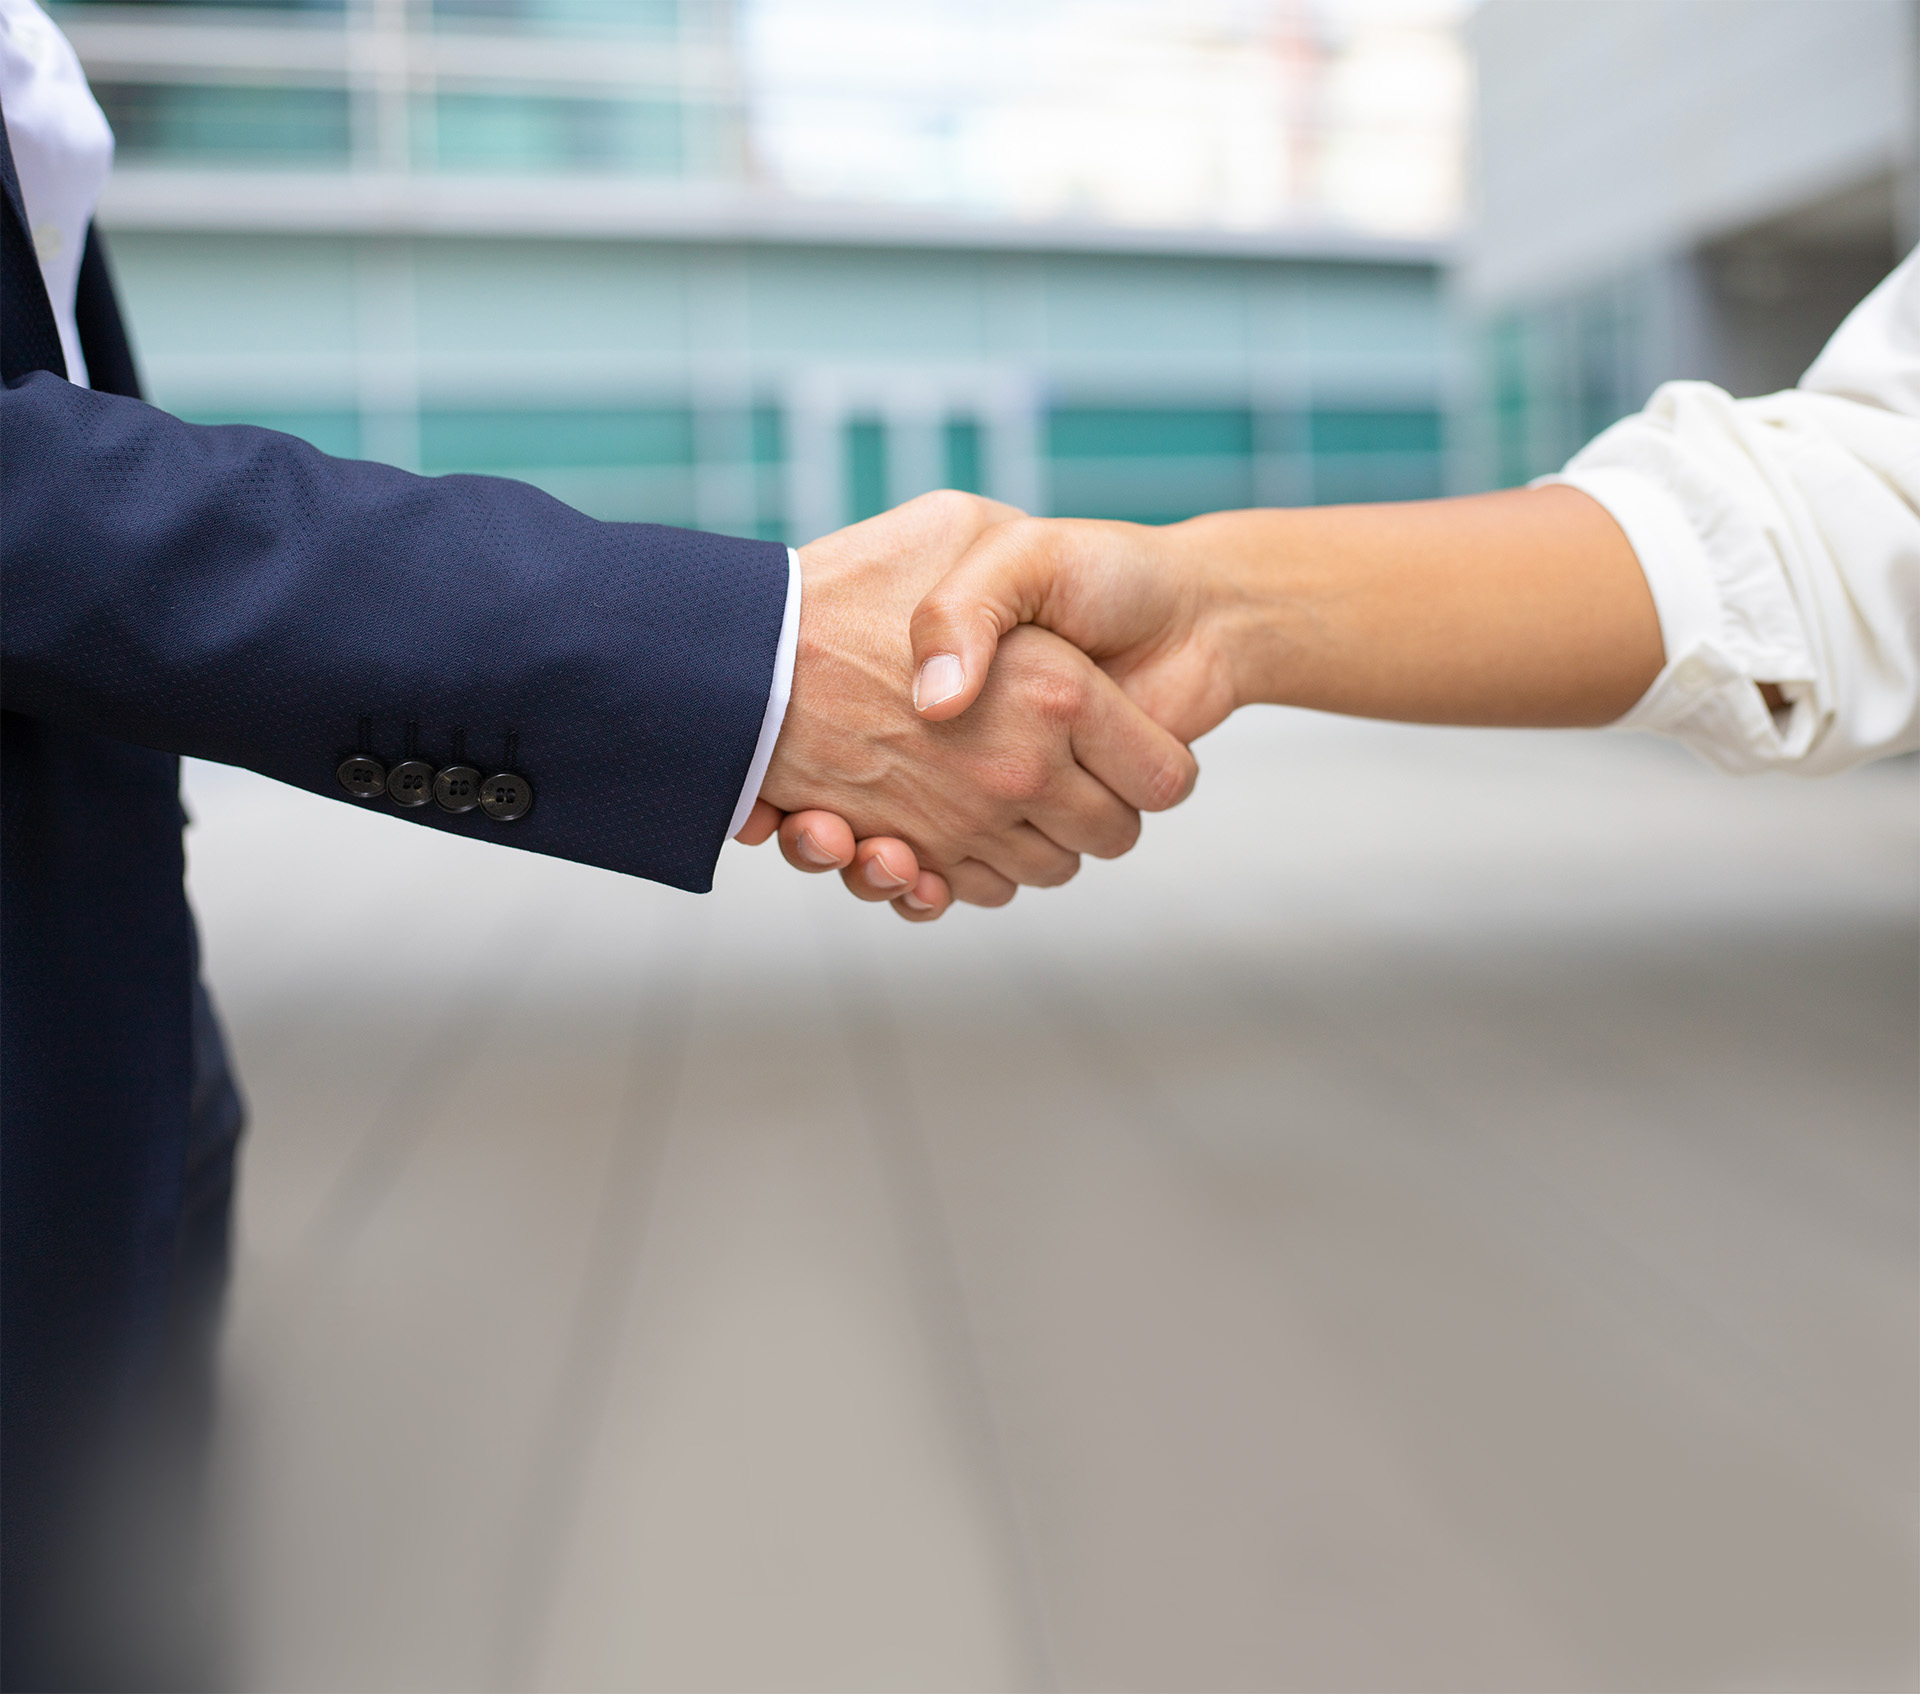
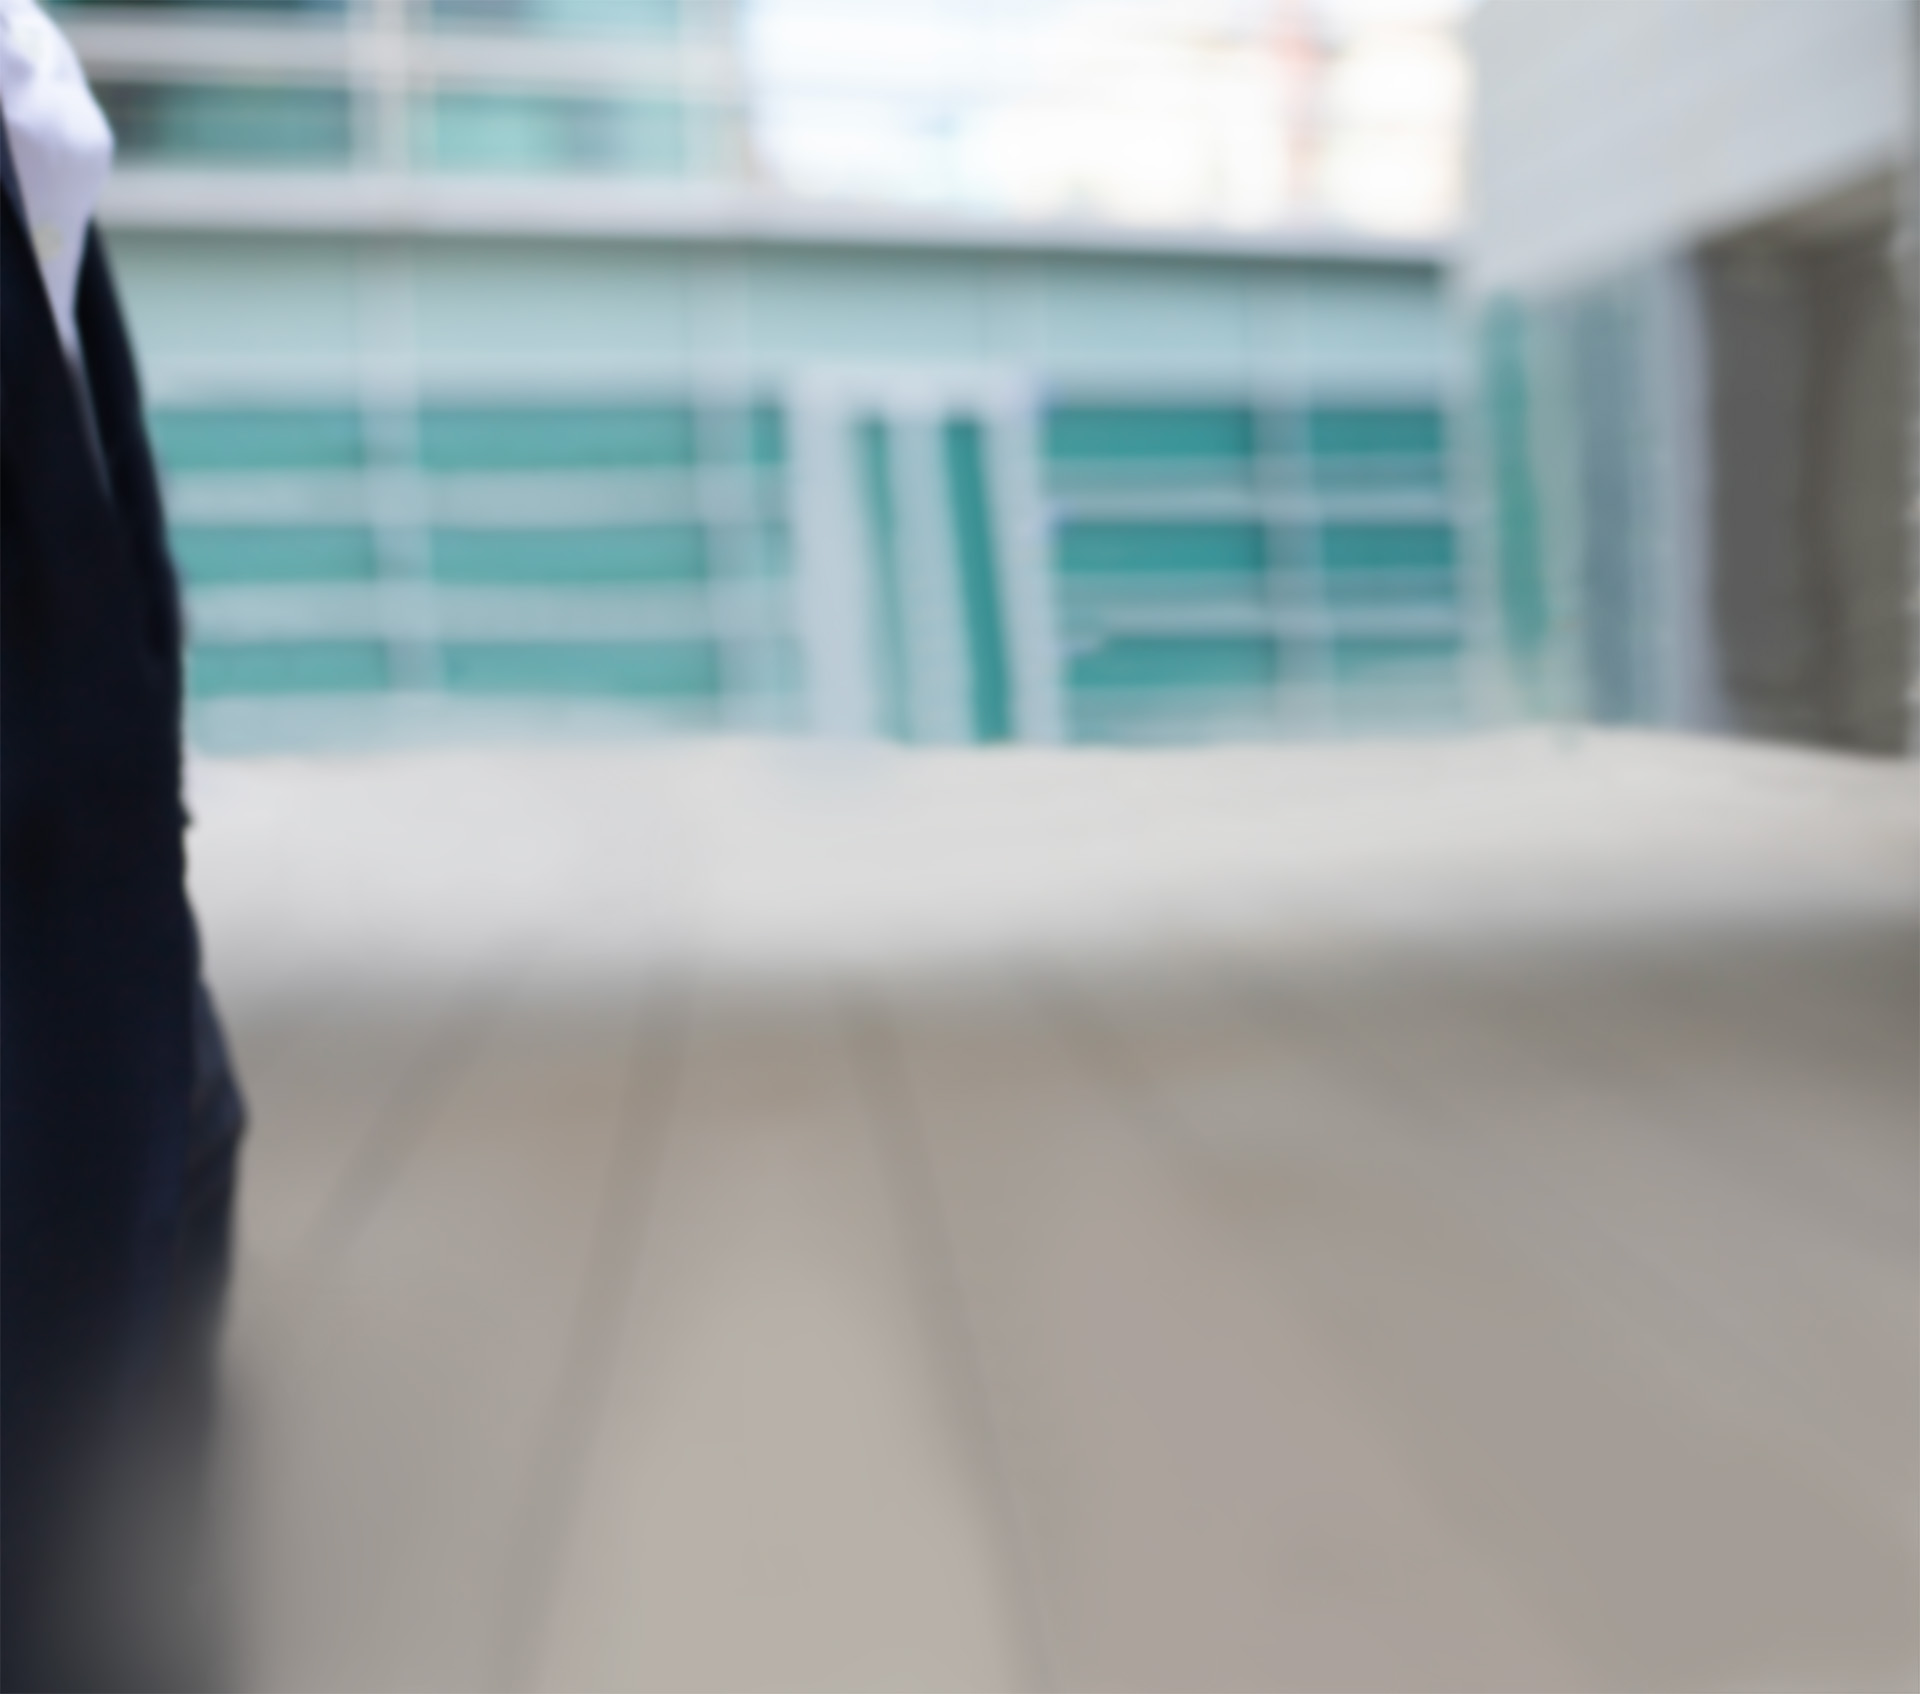
js cleanup

Changed region(s): [[0.0, 0.1228, 1.0, 0.5525], [0.0, 0.1535, 0.0312, 0.1842]]

diff --git a/assets/js/script.js b/assets/js/script.js
@@ -72,36 +72,7 @@
     /************************
         Image Animation
     *************************/
-
-    // Hero Section
-    const observerHero = new IntersectionObserver(cb, {
-        root: null,
-        threshold: 1,
-    })
-
-    function cb(payload) {
-        let initialOffset = 1
-        let initialScale = 1
-        const elem = payload[0]
-
-        if (elem.isIntersecting) {
-            document.addEventListener('scroll', () => {
-                let wo = window.scrollY
-                let newScale = wo * 0.0006 + initialScale
-                let newOffset = wo * 0.0001 + initialOffset
-                elem.target.style.transform = `translateY(${newOffset}px) scale(${newScale})`
-            })
-        }
-    }
-
-    observerHero.observe(document.querySelector('.decor-hero__birds'))
-
-    const observerBirds2 = new IntersectionObserver(cb, {
-        root: null,
-        threshold: 1,
-    })
-
-    function cb(payload) {
+    function cb(payload, scaleSize, offsetSize) {
         let initialOffset = 1
         let initialScale = 1
         const elem = payload[0]
@@ -110,116 +81,89 @@
             const starterScrollY = window.scrollY
             document.addEventListener('scroll', () => {
                 let wo = window.scrollY - starterScrollY
-                let newScale = wo * 0.0002 + initialScale < 1 ? 1 : wo * 0.0002 + initialScale
-                let newOffset = wo * 0.0001 + initialOffset
+                let newScale = wo * scaleSize + initialScale < 1 ? 1 : wo * scaleSize + initialScale
+                let newOffset = wo * offsetSize + initialOffset
                 elem.target.style.transform = `translateY(${newOffset}px) scale(${newScale})`
             })
         }
     }
+
+    // Hero Section
+    const observerHero = new IntersectionObserver(
+        (payload) => {
+            cb(payload, 0.0006, 0.001)
+        },
+        {
+            threshold: 1,
+        }
+    )
+
+    observerHero.observe(document.querySelector('.decor-hero__birds'))
+
+    const observerBirds2 = new IntersectionObserver(
+        (payload) => {
+            cb(payload, 0.0002, 0.003)
+        },
+        {
+            threshold: 1,
+        }
+    )
 
     observerBirds2.observe(document.querySelector('.birds'))
 
     // Mission Section
     const handshake = document.querySelector('.mission-decor__handshake')
 
-    const observerMission = new IntersectionObserver(cb2, {
-        root: null,
-        threshold: 1,
-    })
-
-    function cb2(payload) {
-        let initialOffset = 1
-        let initialScale = 1
-        const elem = payload[0]
-
-        if (elem.isIntersecting) {
-            const starterScrollY = window.scrollY
-            document.addEventListener('scroll', () => {
-                let wo = window.scrollY - starterScrollY
-                let newScale = wo * 0.0002 + initialScale < 1 ? 1 : wo * 0.0002 + initialScale
-                let newOffset = wo * 0.005 + initialOffset
-                elem.target.style.transform = `translateY(${newOffset}%) scale(${newScale})`
-            })
+    const observerMission = new IntersectionObserver(
+        (payload) => {
+            cb(payload, 0.0001, 0.05)
+        },
+        {
+            threshold: 1,
         }
-    }
+    )
 
     observerMission.observe(handshake)
 
     // Clouds Section
     const cloud1 = document.querySelector('.cloud-1')
 
-    const observerCloud1 = new IntersectionObserver(cb3, {
-        root: null,
-        threshold: 1,
-    })
-
-    function cb3(payload) {
-        let initialOffset = 1
-        let initialScale = 1
-        const elem = payload[0]
-
-        if (elem.isIntersecting) {
-            const starterScrollY = window.scrollY
-            document.addEventListener('scroll', () => {
-                let wo = window.scrollY - starterScrollY
-                let newScale = wo * 0.0002 + initialScale < 1 ? 1 : wo * 0.0002 + initialScale
-                let newOffset = wo * 0.015 + initialOffset
-                elem.target.style.transform = `translateY(${newOffset}%) scale(${newScale})`
-            })
+    const observerCloud1 = new IntersectionObserver(
+        (payload) => {
+            cb(payload, 0.0001, -0.2)
+        },
+        {
+            threshold: 1,
         }
-    }
+    )
 
     observerCloud1.observe(cloud1)
 
     // Clouds Section
     const cloud2 = document.querySelector('.cloud-2')
 
-    const observerCloud2 = new IntersectionObserver(cb4, {
-        root: null,
-        threshold: 1,
-    })
-
-    function cb4(payload) {
-        let initialOffset = 1
-        let initialScale = 1
-        const elem = payload[0]
-
-        if (elem.isIntersecting) {
-            const starterScrollY = window.scrollY
-            document.addEventListener('scroll', () => {
-                let wo = window.scrollY - starterScrollY
-                let newScale = wo * 0.0003 + initialScale < 1 ? 1 : wo * 0.0003 + initialScale
-                let newOffset = wo * 0.01 + initialOffset
-                elem.target.style.transform = `translateY(${newOffset}%) scale(${newScale})`
-            })
+    const observerCloud2 = new IntersectionObserver(
+        (payload) => {
+            cb(payload, 0.0004, 0.02)
+        },
+        {
+            threshold: 1,
         }
-    }
+    )
 
     observerCloud2.observe(cloud2)
 
     // Clouds Section
     const windmill = document.querySelector('.windmill')
 
-    const observerWindmill = new IntersectionObserver(cb5, {
-        root: null,
-        threshold: 1,
-    })
-
-    function cb5(payload) {
-        let initialOffset = 1
-        let initialScale = 1
-        const elem = payload[0]
-
-        if (elem.isIntersecting) {
-            const starterScrollY = window.scrollY
-            document.addEventListener('scroll', () => {
-                let wo = window.scrollY - starterScrollY
-                let newScale = wo * 0.0001 + initialScale < 1 ? 1 : wo * 0.0001 + initialScale
-                let newOffset = wo * 0.0001 + initialOffset
-                elem.target.style.transform = `translateY(${newOffset}%) scale(${newScale})`
-            })
+    const observerWindmill = new IntersectionObserver(
+        (payload) => {
+            cb(payload, 0, 0)
+        },
+        {
+            threshold: 1,
         }
-    }
+    )
 
     observerWindmill.observe(windmill)
 })()

diff --git a/assets/css/main.css b/assets/css/main.css
@@ -681,7 +681,6 @@ a {
 .mission-decor {
   position: absolute;
   inset: 0;
-  overflow: hidden;
   z-index: -1;
 }
 .mission-decor img {

diff --git a/assets/scss/_decors.scss b/assets/scss/_decors.scss
@@ -99,7 +99,6 @@
 .mission-decor {
     position: absolute;
     inset: 0;
-    overflow: hidden;
     z-index: -1;
 
     img {
